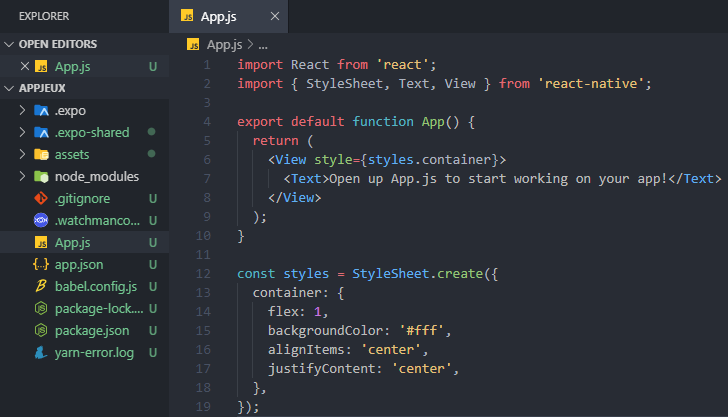
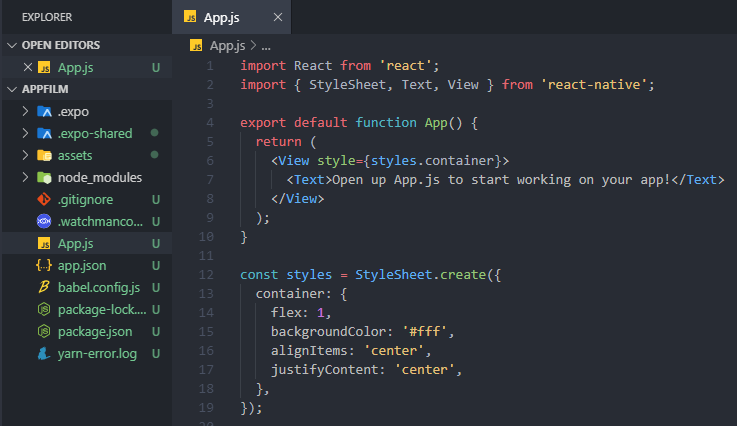
Add files via upload

diff --git a/react-readme/react-native-2.md b/react-readme/react-native-2.md
@@ -17,7 +17,6 @@ A la racine du projet, nous allons créer un dossier *Components* et un fichier 
 Dans *Search.js*, nous allons écrire ce bout de code :  
 
 ```javascript
-{
 // Components/Search.js
 import React from 'react'
 import { View, TextInput, Button } from 'react-native'
@@ -29,7 +28,7 @@ class Search extends React.Component {
         )
     }
 }
-}
+
 ```  
 
 Comme vous pouvez le constater, la deuxième ligne *import* est grisée. Pourquoi ? Car nos components ne sont pas encore définis dans notre *render*. Dans notre *return*, entre parenthèses, il faut ajouter : 
@@ -37,7 +36,7 @@ Comme vous pouvez le constater, la deuxième ligne *import* est grisée. Pourquo
 ```javascript
 // Components/Search.js
       <View>
-        <TextInput placeholder='Titre du jeu'/>
+        <TextInput placeholder='Titre du film'/>
         <Button title='Rechercher' onPress={() => {}}/>
       </View>
 ```
@@ -70,7 +69,7 @@ Vous devriez avoir ceci comme rendu :
 
 ```javascript
 <View>
-    <TextInput placeholder="Titre du jeu"/>
+    <TextInput placeholder="Titre du film"/>
     <Button title="Rechercher" onPress={() => {}}/>
 </View>
 ```  
@@ -79,7 +78,7 @@ Vous devriez avoir ceci comme rendu :
 
 ```javascript
 React.createElement(View, {},
-  	React.createElement(TextInput, {placeholder: "Titre du jeu"}),
+  	React.createElement(TextInput, {placeholder: "Titre du film"}),
     React.createElement(Button, {title: "Rechercher", onPress: () => {}})
 )
 ```  

diff --git a/react-readme/react-native-4.md b/react-readme/react-native-4.md
@@ -25,7 +25,7 @@ class Search extends React.Component {
   render() {
     return (
       <View style={styles.main_container}>
-        <TextInput style={styles.textinput} placeholder='Titre du jeu'/>
+        <TextInput style={styles.textinput} placeholder='Titre du film'/>
         <Button title='Rechercher' onPress={() => {}}/>
       </View>
     )
@@ -68,7 +68,7 @@ Et maintenant, on ajoute une *FlatList* dans notre component custom Search :
 render() {
     return (
       <View style={styles.main_container}>
-        <TextInput style={styles.textinput} placeholder='Titre du film'/>
+        <TextInput style={styles.textinput} placeholder='Titre du jeu'/>
         <Button title='Rechercher' onPress={() => {}}/>
         {/* Ici j'ai simplement repris l'exemple sur la documentation de la FlatList */}
         <FlatList
@@ -80,8 +80,8 @@ render() {
 }
 ```  
 
-Une FlatList doit obligatoirement implémenter deux propriétés :
+Une *FlatList* doit obligatoirement implémenter deux propriétés :
 
-    data : qui correspond aux données affichées dans la liste. Ici, on renseignera nos films ;
+- data : qui correspond aux données affichées dans la liste.
+-renderItem : qui correspond au rendu (template) des données de la liste.  
 
-    renderItem : qui correspond au rendu des données de la liste. Ici, on définira un template pour afficher nos films.

diff --git a/react-readme/react-native-3.md b/react-readme/react-native-3.md
@@ -8,7 +8,7 @@ On attaque directement avec le *Search.js* dans lequel on va rajouter du style a
 render() {
     return (
         <View style={{ marginTop: 20 }}>
-            <TextInput style={{ marginLeft: 5, marginRight: 5, height: 50, borderColor: '#000000', borderWidth: 1, paddingLeft: 5 }} placeholder='Titre du jeu'/>
+            <TextInput style={{ marginLeft: 5, marginRight: 5, height: 50, borderColor: '#000000', borderWidth: 1, paddingLeft: 5 }} placeholder='Titre du film'/>
             <Button title='Rechercher' onPress={() => {}}/>
         </View>
     )
@@ -62,7 +62,7 @@ Alors là, deux solutions :
 - On crée un nouveau style de la même manière que précédemment. Par exemple, on crée un *textinput2*. 
 - On fait un mix de notre premier style et on rajoute un autre style directement dans le *component* comme ceci :  
 ```javascript
-<TextInput style={[styles.textinput, { marginBottom: 10 }]} placeholder='Titre du jeu'/>
+<TextInput style={[styles.textinput, { marginBottom: 10 }]} placeholder='Titre du film'/>
 ```  
 
 ## StyleSheet

diff --git a/README.md b/README.md
@@ -62,7 +62,10 @@ Appuyez sur 'Enter' une première fois et ensuite, on vous demande de réécrire
 
 Une fois les différentes librairies JavaScript installées, vous verrez apparaître ce message : 
 
-![image project-ready](assets/img/project-ready.png)
+    To get started, you can type:
+
+    cd AppFilm
+    npm start
 
 Il suffit maintenant de changer de dossier via la commande '**cd**' et lancer l'App avec '**npm start**'
 
